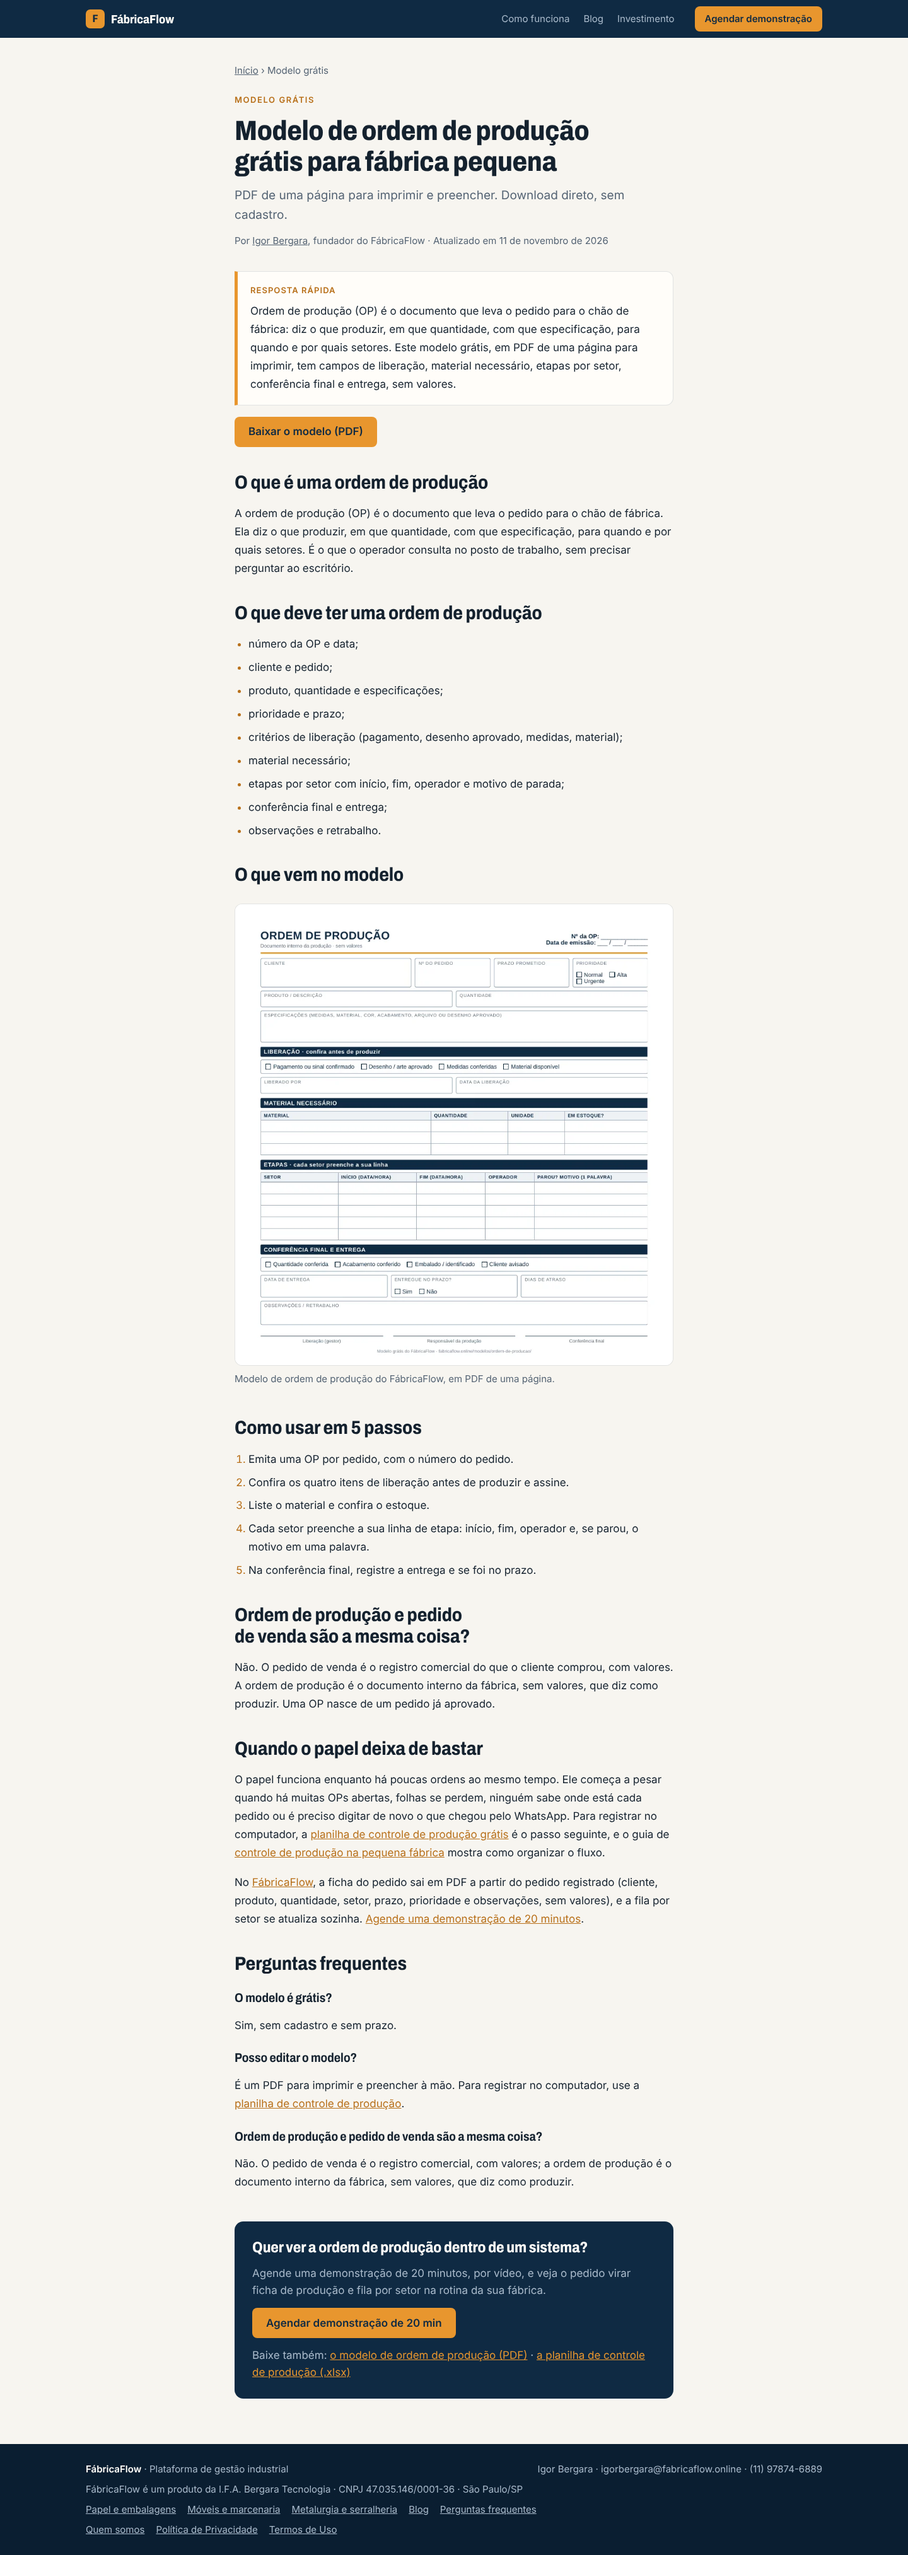
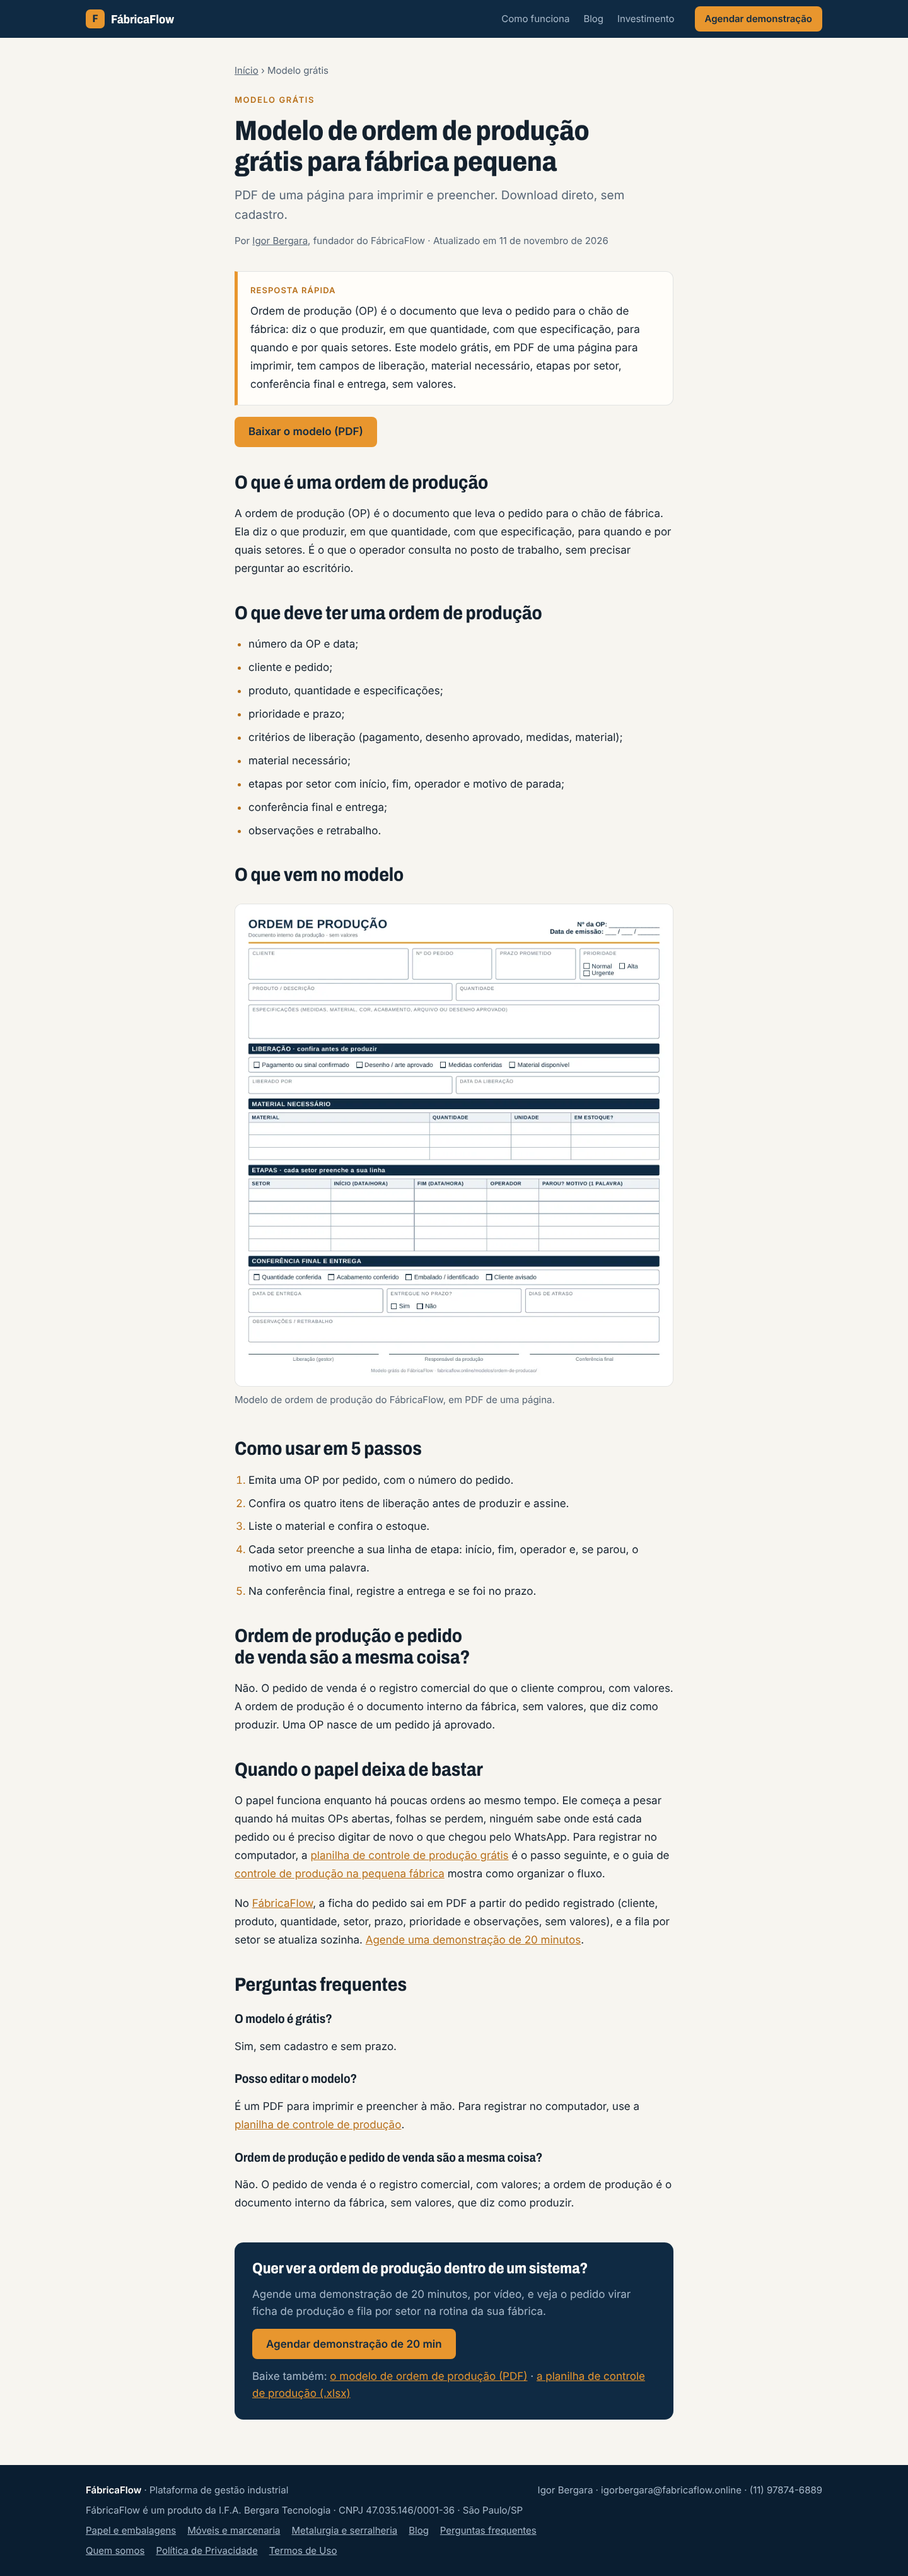
Prévia: PDF da ordem de produção v2 (borda direita corrigida), imagem e capa refeitas
Claude-Session: https://claude.ai/code/session_01JhkAiQhbFPaGihPfVnRine

Changed region(s): [[0.25, 0.0311, 0.7188, 0.9329], [0.0938, 0.964, 0.3125, 0.9951], [0.4688, 0.0622, 0.5312, 0.0933]]

diff --git a/modelos/ordem-de-producao/index.html b/modelos/ordem-de-producao/index.html
@@ -186,7 +186,7 @@
 
         <h2>O que vem no modelo</h2>
         <figure class="artigo-figura">
-          <img src="/img/modelo-ordem-de-producao.webp" width="911" height="959" alt="Modelo de ordem de produção em PDF: campos de cliente, pedido, prazo e prioridade, liberação, material necessário, etapas por setor, conferência final e entrega, sem valores." loading="lazy" decoding="async">
+          <img src="/img/modelo-ordem-de-producao.webp" width="848" height="933" alt="Modelo de ordem de produção em PDF: campos de cliente, pedido, prazo e prioridade, liberação, material necessário, etapas por setor, conferência final e entrega, sem valores." loading="lazy" decoding="async">
           <figcaption>Modelo de ordem de produção do FábricaFlow, em PDF de uma página.</figcaption>
         </figure>
 
